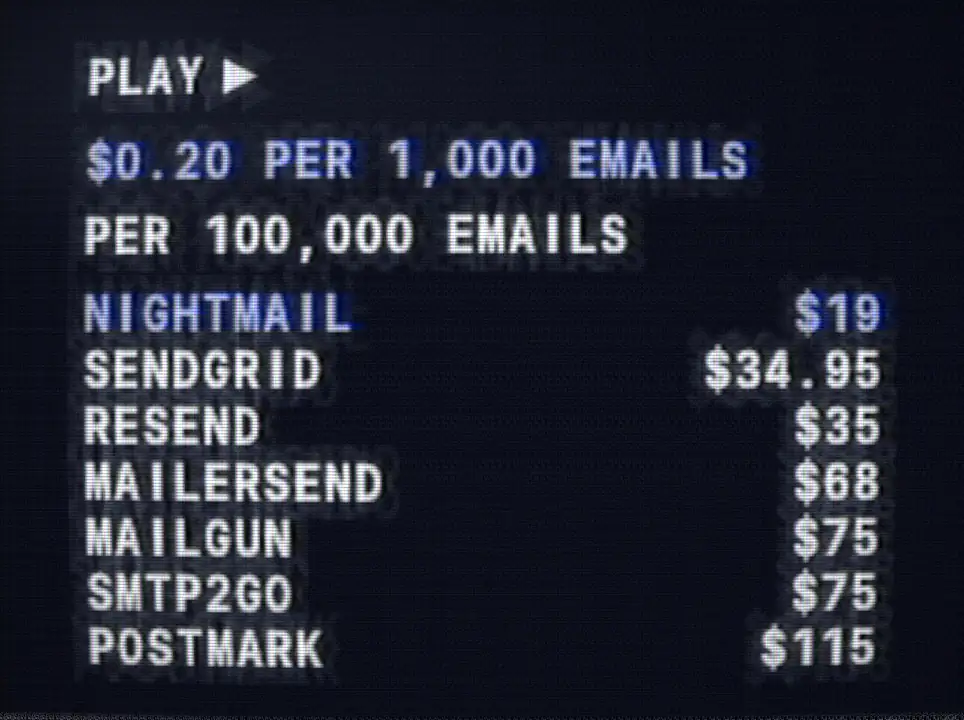
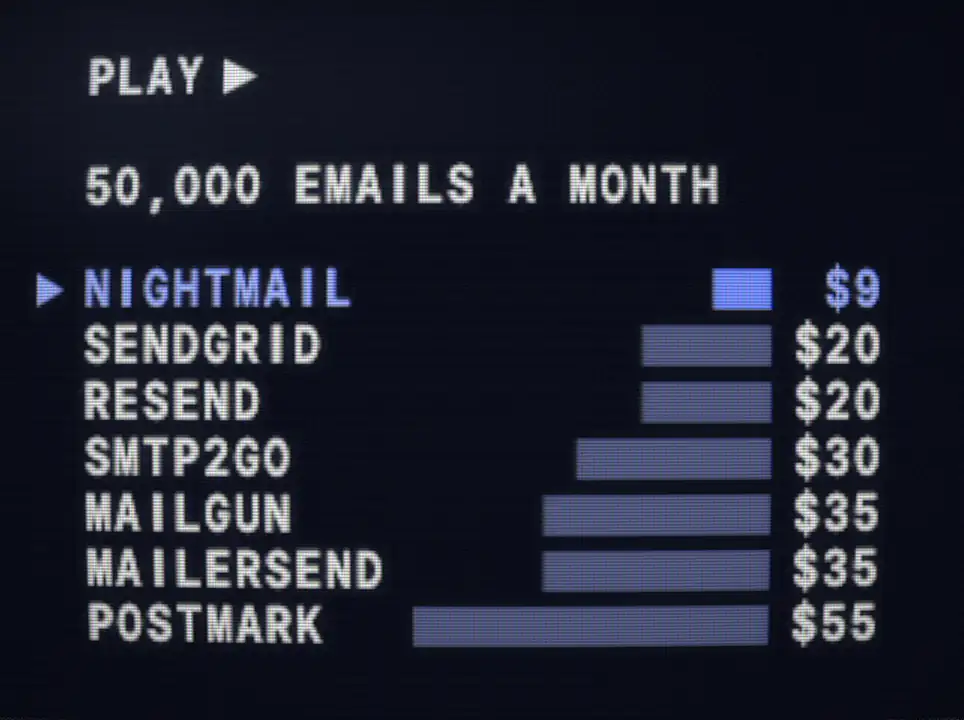
Calmer tape, right-aligned bar charts, and 50,000 emails as the default screen
The television's default screen had too much motion and blur to read at a glance: two headings, six cycling volumes
with counting numbers, a sweeping blue bar, and heavy VHS smear and tearing. It now opens on one still screen:

- 50,000 emails a month (data.ts: OPENING = 50_000), held still with one heading ("50,000 EMAILS A MONTH"). Every
  competitor is two digits ($20 to $55) while Nightmail is $9, so the prices line up in one clean column.
- Right-aligned bar charts on every comparison channel (channels 1, 4, 5 and 7): prices in a vertical right-aligned
  column on the far right, bars on their left growing toward the names from one shared baseline, and a margin arrow
  beside Nightmail.
- Whole dollars on monthly and yearly totals (halves round down so no competitor is shown dearer than it is);
  channel 4 (per 1,000 emails) keeps cents ($0.20 to $1.10). Hidden text and /index.md keep exact figures.
- Sharper, steadier tape shader: less colour bleed, softer glow, minimal wobble/band tear, no dropouts, and the
  unused page-cycling and uJump code removed.
- Recaptured tv/crt/still.webp, tv/crt/still.json and tv/og.png (1200x630) from the new opening screen, and updated
  home-tv.ts's image alt text to match.

Verified: typecheck and api/scripts/check-premerge.ts pass; channels 1, 4, 5 and 7 checked in headless Chromium with
no overlap or errors; 14 layout runs across six sizes (open and full) have CLS 0 and nothing moves; a VITE_HOME=tv
[…]

diff --git a/app/src/features/home/tv/tv.tsx b/app/src/features/home/tv/tv.tsx
@@ -7,7 +7,7 @@ import { NightmailWordmark } from '../../../components/NightmailLogo'
 import type { HomeProps, HomeStart } from '..'
 import { useSignupsFull } from '../signups-open'
 import { StartButton } from '../start'
-import { MONTHS, OPENING, PER_THOUSAND, VOLUMES, count, usd, type Volume } from './data'
+import { MONTHS, OPENING, PER_THOUSAND, count, usd, type Volume } from './data'
 import { Heading, Words } from './words'
 import { Remote, type RoomLight } from './crt/remote'
 import type { Broadcast } from './crt/commercial/play'
@@ -40,23 +40,26 @@ const DRAG = 6
 
 // What is on: channel 1 is the tape (the page's own comparison); each of the next six says one more thing about what
 // Nightmail costs, every figure from the billing code (pricing/prices.ts: nightmail) or the comparison (data.ts). Channel 8 is on the air: Nightmail's old television commercial (crt/commercial), fetched and shown when its key is pressed.
-type Row = { name: string; value: string; ours: boolean }
-type Channel = { kind: 'list'; head?: string; title: string; rows: Row[]; tape?: boolean; cycle?: boolean } | { kind: 'air' } | { kind: 'bars' } | { kind: 'dead' }
+type Row = { name: string; value: string; ours: boolean; amount?: number }
+type Channel = { kind: 'list'; head?: string; title: string; rows: Row[]; tape?: boolean } | { kind: 'air' } | { kind: 'bars' } | { kind: 'dead' }
+// Whole dollars on monthly and yearly totals (a half rounds down, so no vendor is shown dearer than it is); per-1,000
+// rates keep their cents.
+const whole = (dollars: number) => `$${Math.ceil(dollars - .5).toLocaleString('en-US')}`
 const cents = (dollars: number) => usd(Math.round(dollars * 100) / 100)
-const month = (volume: Volume, value: (dollars: number, ours: boolean) => string = d => usd(d)): Row[] => MONTHS[volume].map(line => ({ name: line.name.toUpperCase(), value: value(line.dollars, line.ours), ours: line.ours }))
+const month = (volume: Volume, value: (dollars: number, ours: boolean) => string = d => whole(d)): Row[] => MONTHS[volume].map(line => ({ name: line.name.toUpperCase(), value: value(line.dollars, line.ours), ours: line.ours, amount: line.dollars }))
 const fact = (name: string, value: string): Row => ({ name, value, ours: false })
 const CHANNELS: Channel[] = [
-  { kind: 'list', tape: true, cycle: true, head: `${PER_THOUSAND} PER ${count(1000)} EMAILS`, title: `PER ${count(OPENING)} EMAILS`, rows: month(OPENING) },
+  { kind: 'list', tape: true, title: `${count(OPENING)} EMAILS A MONTH`, rows: month(OPENING) },
   // what is free every month, before anything is charged
   { kind: 'list', title: 'FREE EVERY MONTH', rows: [fact('EMAILS SENT', count(nightmail.freeSent)), fact('EMAILS RECEIVED', count(nightmail.freeReceived)), fact('STORAGE', `${nightmail.freeStorageGb} GB`)] },
   // what is charged after that, and what never is
   { kind: 'list', title: 'AFTER THE FREE ONES', rows: [fact(`${count(1000)} SENT`, nightmail.perThousand), fact(`${count(1000)} RECEIVED`, nightmail.perThousand), fact('CONTACTS', 'FREE'), fact('TEAMMATES', 'FREE')] },
   { kind: 'list', title: `PER ${count(1000)} EMAILS`, rows: month(OPENING, (d, ours) => ours ? PER_THOUSAND : cents(d / (OPENING / 1000))) },
-  { kind: 'list', title: `A YEAR AT ${count(OPENING)} A MONTH`, rows: month(OPENING, d => cents(d * 12)) },
+  { kind: 'list', title: `A YEAR AT ${count(OPENING)} A MONTH`, rows: month(OPENING, d => whole(d * 12)) },
   // what keeping received mail costs
   { kind: 'list', title: 'RECEIVED MAIL, KEPT', rows: [fact(`FIRST ${nightmail.storageAfterDays} DAYS`, 'FREE'), fact(`NEXT ${nightmail.freeStorageGb} GB`, 'FREE'), fact('EACH GB A MONTH', nightmail.storagePerGb)] },
-  // the largest month the tape plays, held still
-  { kind: 'list', title: `PER ${count(1_000_000)} EMAILS`, rows: month(1_000_000) },
+  // a million emails a month, held still
+  { kind: 'list', title: `${count(1_000_000)} EMAILS A MONTH`, rows: month(1_000_000) },
   { kind: 'air' },
 ]
 const TAPE = CHANNELS[0] as Extract<Channel, { kind: 'list' }>, AIR = CHANNELS.findIndex(channel => channel.kind === 'air')
@@ -80,35 +83,11 @@ const DEAD = STATIONS.length - 1, BARS = CHANNELS.length + NUMBERS.indexOf(0)
 /** Where a typed number tunes the set: channel 1 to 8, a number off the keys, or nowhere. */
 const stationOf = (number: number) => number >= 1 && number <= CHANNELS.length ? number - 1 : NUMBERS.includes(number) ? CHANNELS.length + NUMBERS.indexOf(number) : DEAD
 
-// The tape goes round the volumes, a page each, starting from the opening one. A page turns as a character generator
-// redraws a screen: the tape hiccups (a flick of static, the picture jumps a line or two and settles), then a
-// highlight bar runs down the screen, title first and then row by row, and under it each figure runs to the next
-// page's. Rows keep their places (the opening page's order) so each figure can be watched changing.
-const PAGE = 5200, COUNT = 620, FIRST = 140, STEP = 85, TURN = FIRST + 6 * STEP + COUNT
-const PAGES = [...VOLUMES.slice(VOLUMES.indexOf(OPENING)), ...VOLUMES.slice(0, VOLUMES.indexOf(OPENING))]
-const BILLS = Object.fromEntries(VOLUMES.map(volume => [volume, MONTHS[OPENING].map(line => MONTHS[volume].find(other => other.slug === line.slug)!.dollars)])) as Record<Volume, number[]>
-type Line = Row & { lit: number }
-type Page = { key: string; title: string; lit: number; rows: Line[]; since: number | null }
-/** The tape `ms` after its first page came up (before that, and with reduced motion, the opening page). since: how
- *  long ago this page began to turn in, while it still is. */
-function pageAt(ms: number): Page {
-  const at = Math.max(0, Math.floor(ms / PAGE)), since = at === 0 ? TURN : ms - at * PAGE, done = since >= TURN
-  const to = PAGES[at % PAGES.length]!, from = PAGES[(at + PAGES.length - 1) % PAGES.length]!
-  // one line's turn: how far its figure has run, and how bright the bar on it is (brightest as it arrives)
-  const line = (delay: number) => { const p = clamp((since - delay) / COUNT); return { k: easeOut(p), lit: p > 0 && p < 1 ? (1 - p) ** 1.6 : 0 } }
-  const run = (a: number, b: number, k: number) => a + (b - a) * k, head = line(0)
-  return {
-    key: `${at}:${done ? 1 : Math.round(since)}`, since: done ? null : since,
-    title: `PER ${count(head.k >= 1 ? to : Math.round(run(from, to, head.k) / 1000) * 1000)} EMAILS`, lit: head.lit,
-    rows: TAPE.rows.map((row, i) => { const l = line(FIRST + i * STEP); return { ...row, lit: l.lit, value: usd(l.k >= 1 ? BILLS[to][i]! : Math.round(run(BILLS[from][i]!, BILLS[to][i]!, l.k))) } }),
-  }
-}
-
 // The picture, drawn small (240 lines, as much as a tape holds) and left to the tube.
 // The table's light: MW x MH cells, the picture CW of them wide. COOL: the colour of a dark picture's light; LIFT: how
 // much of the photograph's own pool a black (but lit) screen leaves.
 const MW = 40, MH = 10, CW = 28, WALL = [96, 124, 190], COOL = [.84, .9, 1], LIFT = .66
-const TW = 320, TH = 240, INK = '#E9E8DF', OURS = '#9DAEFF', FONT = '700 16.5px Inter, "Helvetica Neue", Arial, sans-serif', CELL = 9.7
+const TW = 320, TH = 240, INK = '#E9E8DF', OURS = '#9DAEFF', BAR = '#4A5074', OUR_BAR = '#6F86FF', FONT = '700 16.5px Inter, "Helvetica Neue", Arial, sans-serif', CELL = 9.7
 // A VCR's on-screen type: every character in its own cell. Set from a face whose zero is open (a dotted zero reads as
 // an 8 once the tape has softened it), one character at a time.
 function type(ctx: CanvasRenderingContext2D, text: string, x: number, y: number, right = false) {
@@ -123,22 +102,27 @@ function type(ctx: CanvasRenderingContext2D, text: string, x: number, y: number,
   ctx.setTransform(1, 0, 0, 1, 0, 0)
 }
 /** bare: only the set's own type, on nothing (it is laid over the broadcast). */
-function drawPicture(ctx: CanvasRenderingContext2D, channel: Channel, rows: number, play: boolean, osd: string | null, page: Page | null, bare = false, caption: string | null = null) {
+function drawPicture(ctx: CanvasRenderingContext2D, channel: Channel, rows: number, play: boolean, osd: string | null, bare = false, caption: string | null = null) {
   if (bare) ctx.clearRect(0, 0, TW, TH)
   else { ctx.fillStyle = '#04050D'; ctx.fillRect(0, 0, TW, TH) }
   ctx.font = FONT
   ctx.textBaseline = 'alphabetic'
   if (channel.kind === 'list') {
-    // the tape leads with the price; the lines come up in this order: price, title, then the rows
-    const head = channel.head, top = head ? 62 : 70, under = 86, first = head ? 111 : 103, step = head ? 18 : 19, shown = head ? rows - 1 : rows
+    const head = channel.head, top = head ? 62 : 70, under = 86, first = head ? 111 : 103, step = head ? 18 : 18, shown = head ? rows - 1 : rows
     if (head && rows > 0) { ctx.fillStyle = OURS; type(ctx, head, 32, top) }
-    // the bar that runs down a turning page: a VCR menu's blue, behind the line being redrawn
-    const bar = (lit: number, y: number) => { if (lit > 0) { ctx.fillStyle = `rgb(40 62 200 / ${lit})`; ctx.fillRect(24, y - 14, TW - 48, 18) } }
-    if (shown > 0) { bar(page?.lit ?? 0, head ? under : top); ctx.fillStyle = INK; type(ctx, (page ?? channel).title, 32, head ? under : top) }
-    ;(page ?? channel).rows.slice(0, Math.max(0, shown - 1)).forEach((row, i) => {
+    if (shown > 0) { ctx.fillStyle = INK; type(ctx, channel.title, 32, head ? under : top) }
+    // Comparison rows carry a dollar amount: prices sit right-aligned in one column on the far right, and bars sit on
+    // their left growing toward the names from one shared baseline, with a small arrow in the margin for Nightmail.
+    const most = Math.max(0, ...channel.rows.map(row => row.amount ?? 0))
+    const barEnd = TW - 32 - Math.max(0, ...channel.rows.map(row => row.value.length)) * CELL - 7, reach = barEnd - 138
+    channel.rows.slice(0, Math.max(0, shown - 1)).forEach((row, i) => {
       const y = first + i * step
-      bar((row as Partial<Line>).lit ?? 0, y)
+      if (most > 0 && row.amount !== undefined) {
+        const w = Math.max(3, reach * row.amount / most)
+        ctx.fillStyle = row.ours ? OUR_BAR : BAR; ctx.fillRect(barEnd - w, y - 12, w, 13)
+      }
       ctx.fillStyle = row.ours ? OURS : INK
+      if (row.ours) { ctx.beginPath(); ctx.moveTo(17, y - 11); ctx.lineTo(26, y - 5.5); ctx.lineTo(17, y); ctx.closePath(); ctx.fill() }
       type(ctx, row.name, 32, y); type(ctx, row.value, TW - 32, y, true)
     })
   }
@@ -174,7 +158,7 @@ const FRAG = `#version 300 es
 precision highp float;
 uniform sampler2D uTape, uSomeone;
 uniform vec2 uRes;
-uniform float uTime, uPower, uStatic, uRoll, uTrack, uBad, uJump, uStill, uAir, uOsd, uTilt, uGone;
+uniform float uTime, uPower, uStatic, uRoll, uTrack, uBad, uStill, uAir, uOsd, uTilt, uGone;
 out vec4 o;
 
 // ---------------------------------------------------------------- tuning: the tube
@@ -182,22 +166,22 @@ const float CURVE = .022;       // how far the picture bends with the glass
 const float OVERSCAN = .03;     // how much of the picture the bezel hides
 const float SCAN = .30;         // depth of the scanlines
 const float MASK = .16;         // strength of the red/green/blue phosphor stripes
-const float BLOOM = .50;        // glow around bright text
+const float BLOOM = .16;        // glow around bright text
 const float BLACK = .040;       // how far "black" is from black (a tube glows)
 const float VIGNETTE = .26;     // darkening toward the corners
 const float GLASS = 1.;         // the room reflected in the glass
 const float SOMEONE = .17;      // how plainly someone stands in it once the set has been off a while (0: nobody)
 // ---------------------------------------------------------------- tuning: the tape
-const float BLEED = .016;       // colour smeared to the right, in screen widths
-const float SOFT = .0019;       // softness of the picture
-const float NOISE = .052;       // snow in the picture
-const float WOBBLE = .0006;     // each line's sideways shake
+const float BLEED = .002;       // colour smeared to the right, in screen widths
+const float SOFT = .0007;       // softness of the picture
+const float NOISE = .026;       // snow in the picture
+const float WOBBLE = .0002;     // each line's sideways shake
 const float BAND = .036;        // height of the tracking band
-const float BAND_SNOW = .55;    // how much of the band is torn static (1: as a worn tape)
-const float DROPOUTS = .12;     // how often a dropout streak crosses a line (0: never)
-const float BAND_TEAR = .016;   // how far the band drags lines sideways
+const float BAND_SNOW = .15;    // how much of the band is torn static (1: as a worn tape)
+const float DROPOUTS = 0.;      // how often a dropout streak crosses a line (0: never)
+const float BAND_TEAR = .003;   // how far the band drags lines sideways
 const float BAND_SPEED = .045;  // screens a second the band climbs
-const float HEAD = .022;        // height of the tear along the foot of the picture
+const float HEAD = .010;        // height of the tear along the foot of the picture
 // ---------------------------------------------------------------- tuning: a broadcast (channel 8)
 const float FIT = 1.045;        // it is drawn to the edges of its frame, so it is shown this much smaller (its edges carried
                                 // on under the bezel), to keep its band of type and its corners in sight
@@ -232,7 +216,7 @@ void main() {
 
   // a roll: the picture slides up through one frame, the blanking bar with it
   float seam = abs(s.y - (1. - uRoll));
-  s.y = fract(s.y + uRoll) + uJump;
+  s.y = fract(s.y + uRoll);
 
   float lines = min(240., floor(uRes.y / 3.)), line = floor(s.y * 240.);
   float n = hash(vec2(line, frame));
@@ -247,15 +231,15 @@ void main() {
   vec2 c = vec2(x, s.y);
 
   // luma: soft, with a faint ring on the edges; chroma: smeared in from the left, as tape carries colour
-  float Y = lum(c) * .62 + lum(c - vec2(SOFT, 0.)) * .25 + lum(c + vec2(SOFT, 0.)) * .25 - lum(c - vec2(SOFT * 3.2, 0.)) * .12;
+  float Y = lum(c) * .70 + lum(c - vec2(SOFT, 0.)) * .17 + lum(c + vec2(SOFT, 0.)) * .17 - lum(c - vec2(SOFT * 3.2, 0.)) * .04;
   vec2 IQ = vec2(0.); float sum = 0.;
   float bleed = BLEED * mix(1., AIR_BLEED, uAir);
-  for (int i = 0; i < 6; i++) { float f = float(i) / 5., k = 1. - f * .6; IQ += yiq(tape(c - vec2(bleed * f + .004, -.003))).yz * k; sum += k; }
+  for (int i = 0; i < 6; i++) { float f = float(i) / 5., k = 1. - f * .6; IQ += yiq(tape(c - vec2(bleed * f + .001, -.001))).yz * k; sum += k; }
   vec3 col = rgb(vec3(Y, IQ / sum * 1.15 * (1. - .6 * uBad * step(.5, hash(vec2(floor(t * 3.), 5.))))));
 
   // phosphor glow
   float glow = 0.;
-  for (int i = 0; i < 8; i++) { float a = float(i) * .7854, r = (i % 2 == 0 ? .011 : .026) * mix(1., AIR_GLOW, uAir); glow += lum(c + vec2(cos(a) * r, sin(a) * r * 1.33)); }
+  for (int i = 0; i < 8; i++) { float a = float(i) * .7854, r = (i % 2 == 0 ? .006 : .013) * mix(1., AIR_GLOW, uAir); glow += lum(c + vec2(cos(a) * r, sin(a) * r * 1.33)); }
   col += glow / 8. * BLOOM * vec3(.85, .92, 1.);
 
   // snow, the tracking band's torn static, the head-switch tear, a dropout now and then
@@ -319,7 +303,7 @@ function Tube({ deck, onLight, onFlat }: { deck: Deck; onLight: (level: number) 
     gl.attachShader(program, shader(gl.VERTEX_SHADER, VERT)); gl.attachShader(program, shader(gl.FRAGMENT_SHADER, FRAG)); gl.linkProgram(program)
     if (!gl.getProgramParameter(program, gl.LINK_STATUS)) { console.error(gl.getProgramInfoLog(program)); onFlat(); return }
     gl.useProgram(program)
-    const u = Object.fromEntries(['uTape', 'uRes', 'uTime', 'uPower', 'uStatic', 'uRoll', 'uTrack', 'uBad', 'uJump', 'uStill', 'uAir', 'uOsd', 'uTilt', 'uGone', 'uSomeone'].map(name => [name, gl.getUniformLocation(program, name)]))
+    const u = Object.fromEntries(['uTape', 'uRes', 'uTime', 'uPower', 'uStatic', 'uRoll', 'uTrack', 'uBad', 'uStill', 'uAir', 'uOsd', 'uTilt', 'uGone', 'uSomeone'].map(name => [name, gl.getUniformLocation(program, name)]))
     const texture = gl.createTexture()
     gl.bindTexture(gl.TEXTURE_2D, texture)
     for (const [key, value] of [[gl.TEXTURE_MIN_FILTER, gl.LINEAR], [gl.TEXTURE_MAG_FILTER, gl.LINEAR], [gl.TEXTURE_WRAP_S, gl.CLAMP_TO_EDGE], [gl.TEXTURE_WRAP_T, gl.CLAMP_TO_EDGE]] as const) gl.texParameteri(gl.TEXTURE_2D, key, value)
@@ -432,27 +416,24 @@ function Tube({ deck, onLight, onFlat }: { deck: Deck; onLight: (level: number) 
       const play = channel.kind === 'list' && !!channel.tape && (still || !first || boot >= 900)
       const said = now - deck.noteAt
       const osd = said < 2200 && said <= flick ? deck.note : flick < 2200 ? `CH ${String(deck.number).padStart(2, '0')}` : null
-      const page = channel.kind === 'list' && channel.cycle ? pageAt(still ? 0 : boot - 2100) : null
-      // a page turning: the tape's hiccup (seen, not heard)
-      const since = page?.since ?? null, hiccup = since === null ? 0 : .07 * clamp(1 - since / 200), jump = since === null ? 0 : .009 * Math.exp(-since / 110) * Math.cos(since / 30)
       const caption = air && deck.subtitles ? air.caption() : null
-      const key = [deck.channel, rows, play, osd, page?.key, !!air, caption].join()
-      if (key !== shown) { shown = key; drawPicture(ctx, channel, rows, play, osd, page, !!air, caption); if (!air) { gl.texImage2D(gl.TEXTURE_2D, 0, gl.RGBA, gl.RGBA, gl.UNSIGNED_BYTE, picture); sample(picture) } }
+      const key = [deck.channel, rows, play, osd, !!air, caption].join()
+      if (key !== shown) { shown = key; drawPicture(ctx, channel, rows, play, osd, !!air, caption); if (!air) { gl.texImage2D(gl.TEXTURE_2D, 0, gl.RGBA, gl.RGBA, gl.UNSIGNED_BYTE, picture); sample(picture) } }
       if (air) broadcast(air)
       track += (trackTo - track) * .12
       bad += (deck.bad / 2 - bad) * .2
       size()
       gl.uniform1i(u.uTape!, 0); gl.uniform2f(u.uRes!, el.width, el.height); gl.uniform1f(u.uTime!, (now - began) / 1000)
-      gl.uniform1f(u.uPower!, power); gl.uniform1f(u.uStatic!, Math.max(snow, hiccup)); gl.uniform1f(u.uRoll!, roll >= 1 ? 0 : roll); gl.uniform1f(u.uJump!, jump)
+      gl.uniform1f(u.uPower!, power); gl.uniform1f(u.uStatic!, snow); gl.uniform1f(u.uRoll!, roll >= 1 ? 0 : roll)
       gl.uniform1f(u.uTrack!, track); gl.uniform1f(u.uBad!, bad); gl.uniform1f(u.uStill!, still ? 1 : 0); gl.uniform1f(u.uAir!, air ? 1 : 0); gl.uniform1f(u.uOsd!, nothing ? 1 : 0); gl.uniform1f(u.uTilt!, aired?.tilt ?? 0); const gone = deck.power || still || !stands ? 0 : (now - offAt) / 1000
       if (clip && gone > MOVES && !moving) { moving = true; void clip.play().catch(() => {}) }
       if (moving && !clip!.ended) look()
       gl.uniform1f(u.uGone!, gone)
       gl.drawArrays(gl.TRIANGLES, 0, 3)
-      reflect(power, Math.max(snow, hiccup))
+      reflect(power, snow)
       deck.hear(snow, bad, deck.power)
       onLight(power * (.9 + snow * .7 + (still ? 0 : Math.sin(now / 90) * .02)))
-      deck.level = power * (.9 + Math.max(snow, hiccup) * .7)
+      deck.level = power * (.9 + snow * .7)
     }
     // Tape runs at 30 frames a second, and stops while nobody can see it.
     const loop = (now: number) => {

diff --git a/app/home-tv.ts b/app/home-tv.ts
@@ -181,7 +181,7 @@ const swap: Plugin = {
 }
 
 /** index.html's description (said.ts) and its link preview's (og.png, below) words: the television's. */
-const ALT = 'A 1980s television on a table in a dark room, playing a price list: “$0.20 per 1,000 emails”, then what 100,000 emails cost on Nightmail ($19) and on SendGrid, Resend, MailerSend, Mailgun, SMTP2GO and Postmark ($34.95 to $115).'
+const ALT = 'A 1980s television on a table in a dark room, playing what 50,000 emails a month cost on Nightmail ($9) and on SendGrid, Resend, SMTP2GO, Mailgun, MailerSend and Postmark ($20 to $55).'
 const words: Plugin = {
   name: 'nightmail:television-words',
   transformIndexHtml(html) {

diff --git a/app/src/features/home/tv/data.ts b/app/src/features/home/tv/data.ts
@@ -10,7 +10,7 @@ import { dayOf, listOf, nightmail, nightmailBill, theirPrice, type Usage } from 
 export const VOLUMES = [10_000, 50_000, 100_000, 250_000, 500_000, 1_000_000] as const
 export type Volume = (typeof VOLUMES)[number]
 /** The size a page opens on. */
-export const OPENING: Volume = 100_000
+export const OPENING: Volume = 50_000
 export const MIN_VOLUME = VOLUMES[0], MAX_VOLUME = VOLUMES[VOLUMES.length - 1]!
 
 const SLUGS = ['resend', 'sendgrid', 'postmark', 'mailgun', 'mailersend', 'smtp2go'] as const
